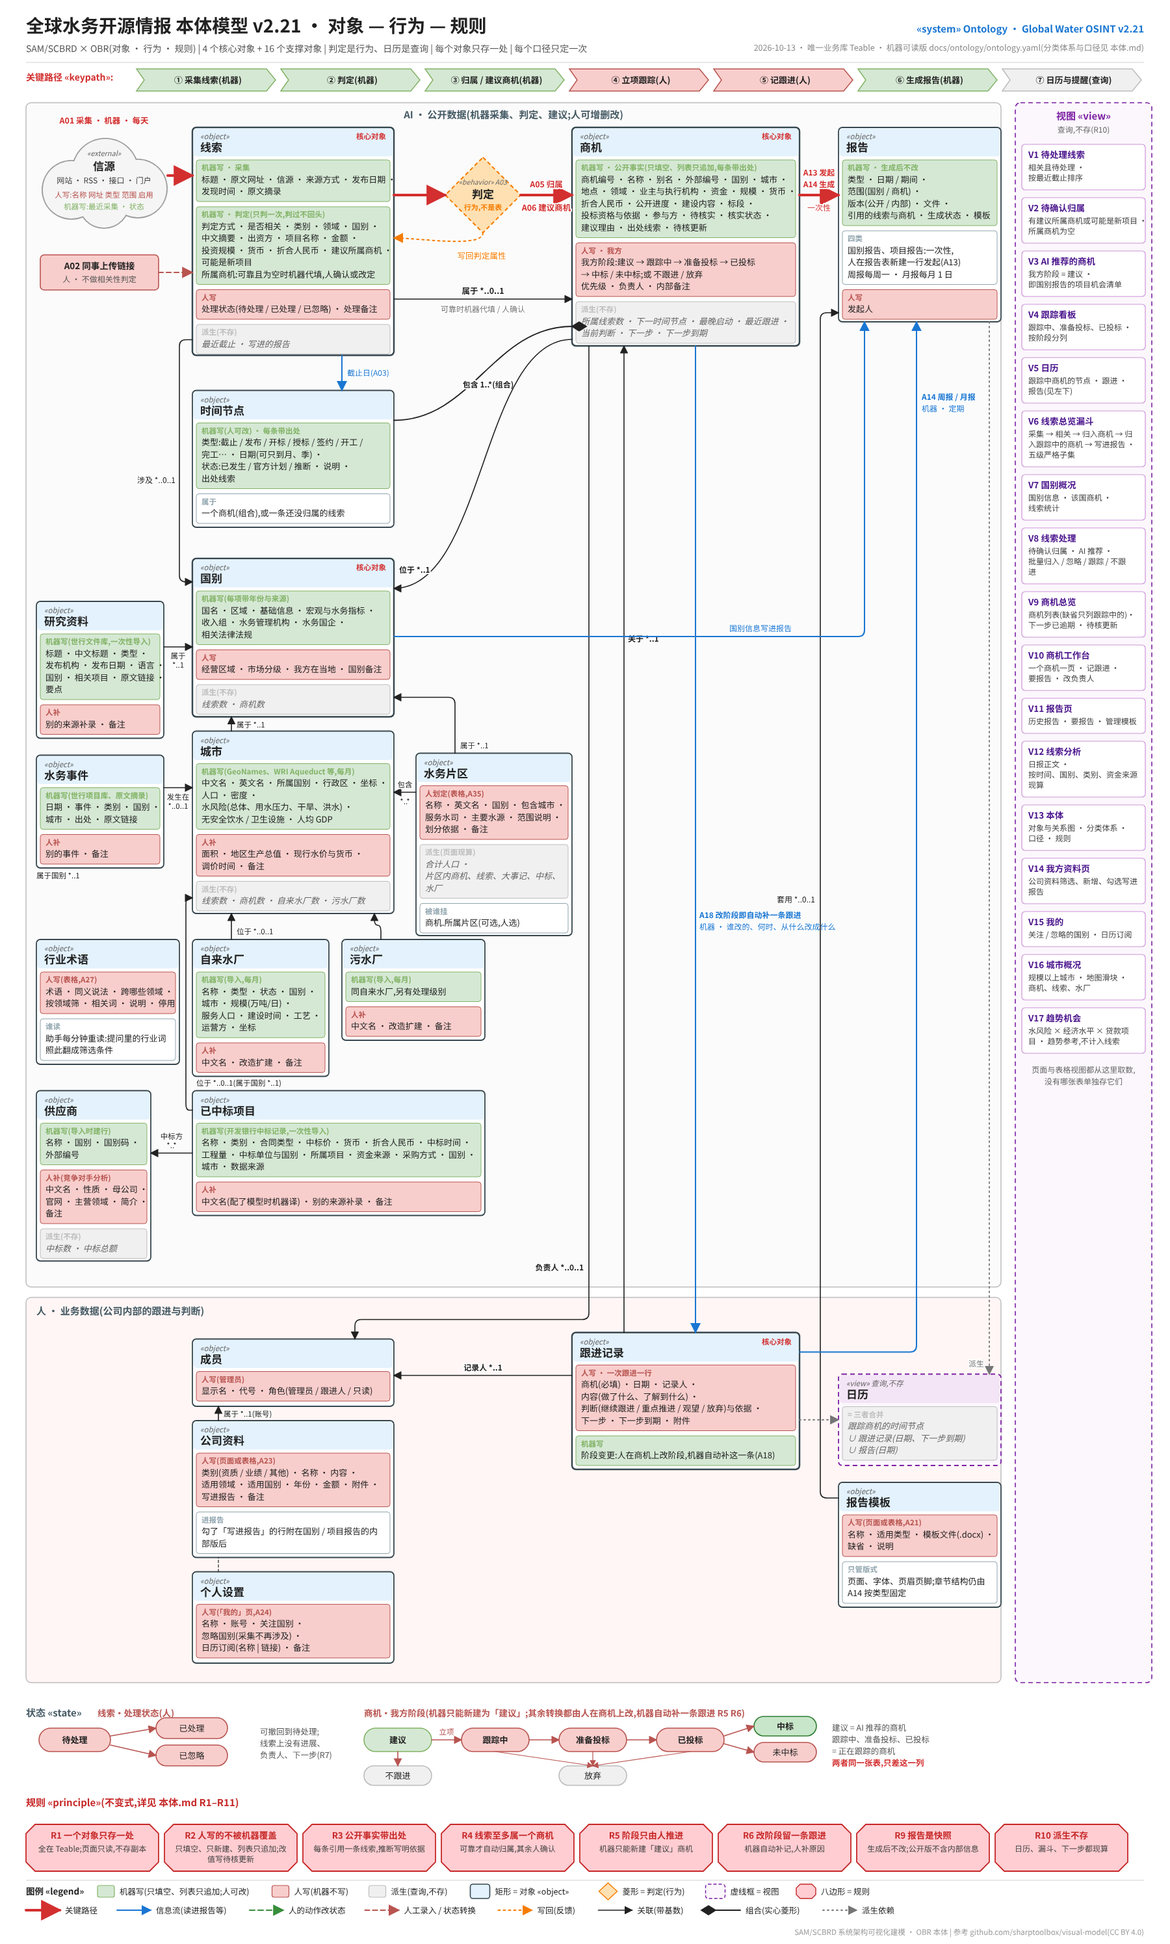
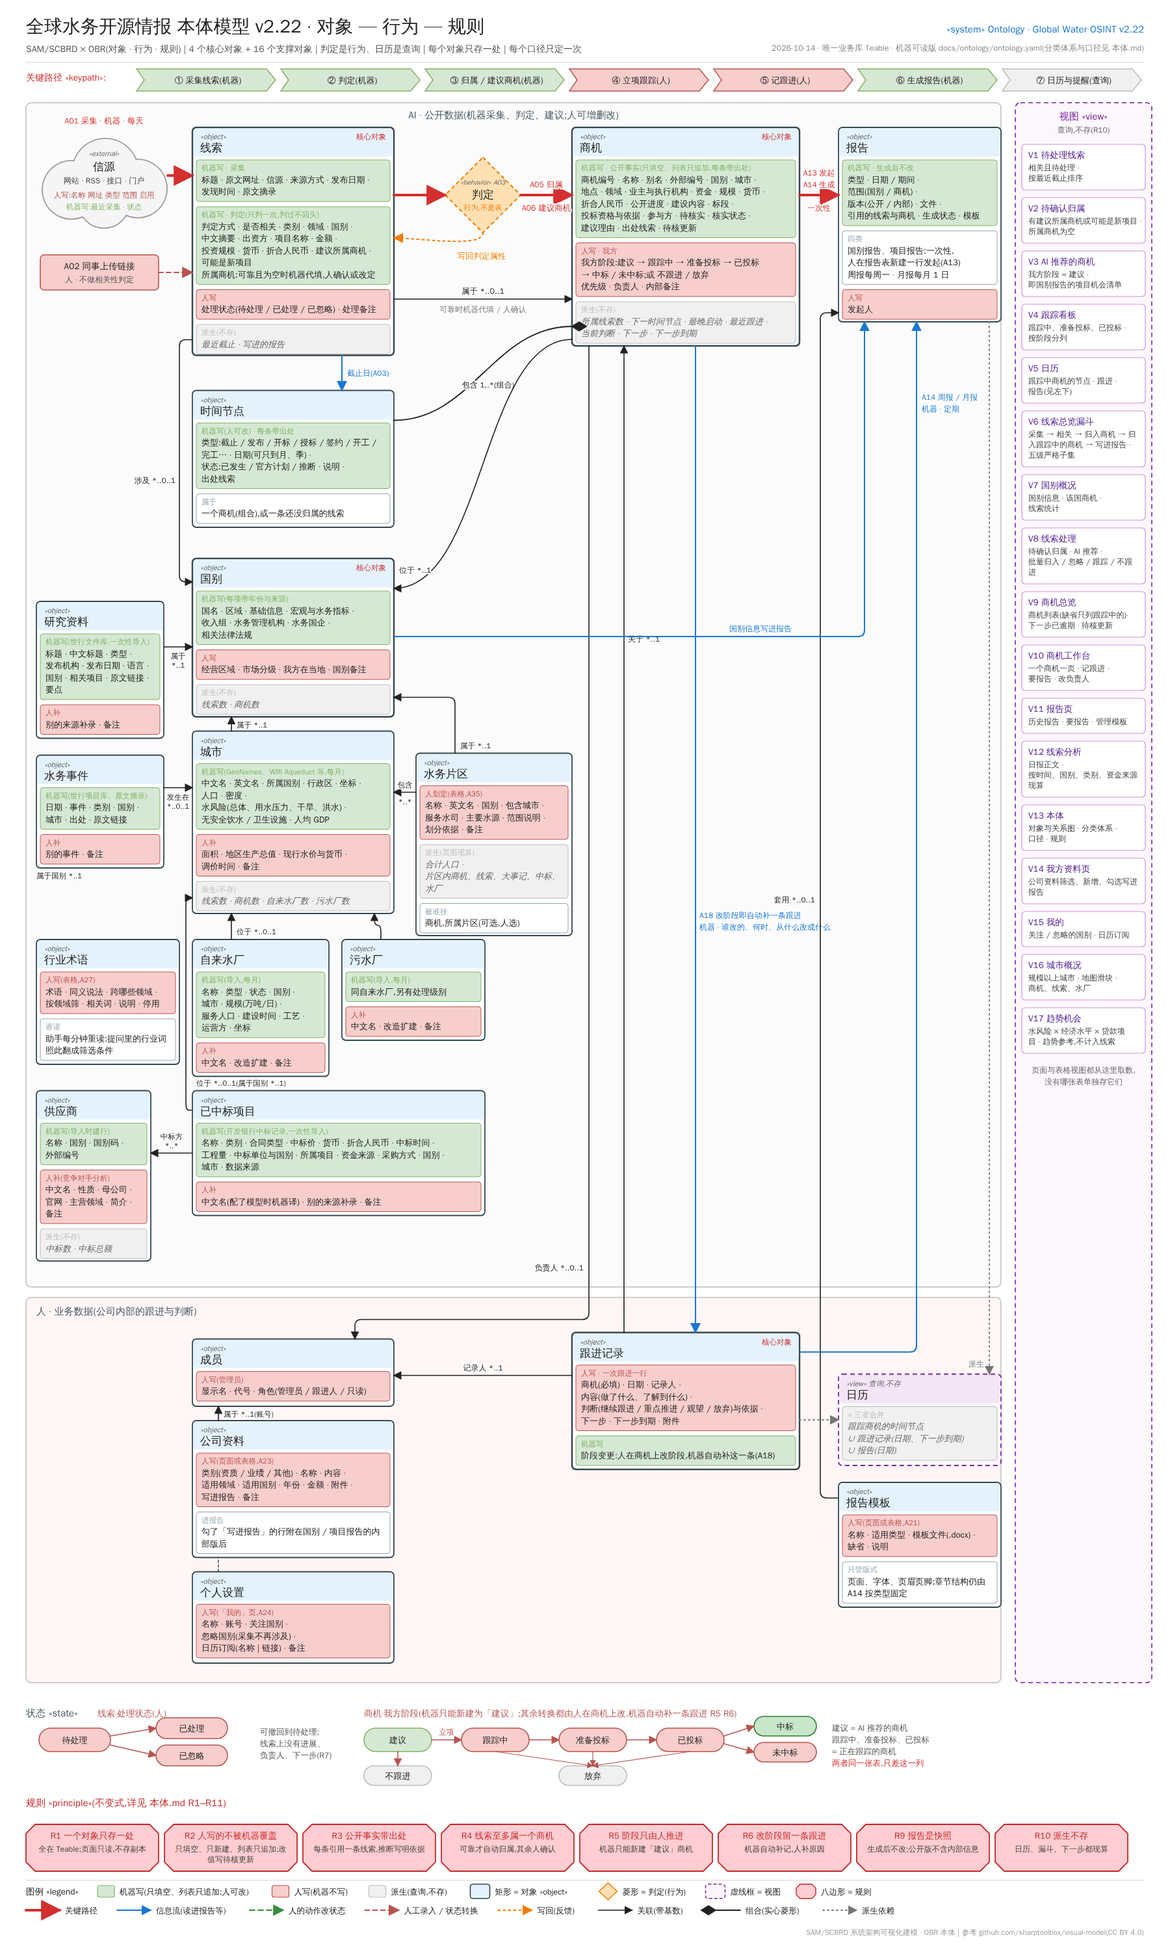
水务片区挪进国别概况「基本信息」:片区页签列这国的片区,市场背景菜单不再单列
Claude-Session: https://claude.ai/code/session_01WAVEGrQrawZNovWQTo83a5

diff --git a/portal/country.html b/portal/country.html
@@ -37,6 +37,11 @@
     <p class="muted small">人口达到门槛(缺省 10 万)的城市,后台每月按 GeoNames 公开数据维护;面积、地区生产总值公开数据里没有,在城市表里补,密度随后自动算。</p>
     <div class="panel" id="cities"></div>
   </div>
+  <div class="tab" data-t="areas">
+    <h2>水务片区</h2>
+    <p class="muted small">共用一家水司、一批水源与干管的连片城市(大城市圈),例如大巴库。小国的水务市场按片区看:城市太碎,国别太粗。片区由人在表格「水务片区」里划定,商机可以挂到片区上;点片区名看片区里的人口、商机、线索、大事记、中标与水厂。</p>
+    <div class="panel" id="areas"></div>
+  </div>
   <div class="tab" data-t="docs"><section id="chron"></section><section id="studies"></section></div>
   <div class="tab" data-t="awards"><section id="awBox"></section></div>
 </main>
@@ -44,9 +49,9 @@
 (async function () {
   const $ = (id) => document.getElementById(id);
   let countries = [], mc = null, mapOption = null;
-  /* 页签分三组(使用方 2026-10-13 要的):基本信息(概况、机构与法规、城市)→ 历史信息(水务历史资料、已中标项目)→ 动态信息(商机、线索、时间节点);
-     选中的记在网址 t= 里,数字是这个国家的条数 */
-  const GROUPS = [["基本信息", [["info", "概况"], ["inst", "机构与法规"], ["cities", "规模以上城市"]]],
+  /* 页签分三组(使用方 2026-10-13 要的):基本信息(概况、机构与法规、城市、水务片区)→ 历史信息(水务历史资料、已中标项目)→ 动态信息(商机、线索、时间节点);
+     选中的记在网址 t= 里,数字是这个国家的条数。水务片区(使用方 2026-10-14 从市场背景菜单挪来)只在这个国家划了片区时出现 */
+  const GROUPS = [["基本信息", [["info", "概况"], ["inst", "机构与法规"], ["cities", "规模以上城市"], ["areas", "水务片区"]]],
     ["历史信息", [["docs", "水务历史资料"], ["awards", "已中标项目"]]],
     ["动态信息", [["opps", "商机"], ["leads", "最近 90 天线索"], ["ms", "未来 30 天节点"]]]];
   const TABS = GROUPS.flatMap(([, ts]) => ts);
@@ -60,7 +65,9 @@
     history.replaceState(null, "", urlOf($("pick").value));
   }
   function drawTabs(counts) {
-    $("tabs").innerHTML = GROUPS.map(([g, ts]) => '<div class="tgrp"><span class="tg">' + g + '</span><div class="tb">' + ts.map(([k, l]) => '<button type="button" data-t="' + k + '">' + l + (counts && counts[k] !== undefined ? " <b>" + counts[k] + "</b>" : "") + "</button>").join("") + "</div></div>").join("");
+    const shown = ([k]) => k !== "areas" || (counts ? counts.areas > 0 : tab === "areas");  // 片区页签:没划片区的国家不出现;数还没读到时只在网址点名要它时先露出
+    if (!TABS.some((t) => t[0] === tab && shown(t))) tab = "info";
+    $("tabs").innerHTML = GROUPS.map(([g, ts]) => '<div class="tgrp"><span class="tg">' + g + '</span><div class="tb">' + ts.filter(shown).map(([k, l]) => '<button type="button" data-t="' + k + '">' + l + (counts && counts[k] !== undefined ? " <b>" + counts[k] + "</b>" : "") + "</button>").join("") + "</div></div>").join("");
     $("tabs").querySelectorAll("button").forEach((b) => { b.onclick = () => showTab(b.dataset.t); });
     showTab(tab);
   }
@@ -102,14 +109,16 @@
     $("rel").innerHTML = P.marketLinks(iso, "", "country.html");
     const since = P.addDays(P.today(), -90), until = P.addDays(P.today(), 30), today = P.today();
     const hasCity = !!(P.cfg.tables && P.cfg.tables.city);  /* 「城市」表建了才有(表结构没更新时页签显示「未建表」) */
+    const hasArea = !!(P.cfg.tables && P.cfg.tables.water_area) && P.has("opportunity", "area");
     const listsP = Promise.all([  // 这几张清单只要国别编号:与读整条国别记录同时发出,不排队
-      P.records("opportunity", { filter: P.and(P.cond("opportunity", "country", "is", c.id)), props: ["code", "name_zh", "stage", "public_stage", "next_milestone", "owner", "financing", "priority"] }),
+      P.records("opportunity", { filter: P.and(P.cond("opportunity", "country", "is", c.id)), props: ["code", "name_zh", "stage", "public_stage", "next_milestone", "owner", "financing", "priority"].concat(hasArea ? ["area"] : []) }),
       P.records("lead", { filter: P.and(P.cond("lead", "country", "is", c.id), P.cond("lead", "relevant", "is", true), P.cond("lead", "found_at", "isOnOrAfter", P.onDay(since))),
         take: 200, orderBy: [{ fieldId: P.f("lead", "found_at"), order: "desc" }], props: ["key", "title", "url", "category", "published", "found_at", "nearest_deadline", "summary_zh", "project_name", "opportunity", "status"] }),
       P.records("milestone", { filter: P.and(...P.between("milestone", "day", today, until)), props: ["opportunity", "lead", "country", "kind", "day", "status", "label"] }),
       hasCity ? P.records("city", { filter: P.and(P.cond("city", "country", "is", c.id)), orderBy: [{ fieldId: P.f("city", "population"), order: "desc" }],
         props: ["name_zh", "name_en", "admin", "population", "area_km2", "density", "gdp", "gdp_year", "lead_count", "opp_count", "coords"] }) : Promise.resolve([]),
     ]);
+    const areasP = hasArea ? P.records("water_area", { filter: P.and(P.cond("water_area", "country", "is", c.id)), props: ["name", "name_en", "cities", "utility"] }).catch((e) => { P.fail($("areas"), e); return []; }) : Promise.resolve([]);
     const awP = P.awards($("awBox"), "country", c.id).catch((e) => { P.fail($("awBox"), e); return 0; });  /* 已中标项目(历史信息里的一个页签):自己读自己画,不等别的 */
     /* 水务历史资料:大事记在上、研究资料在下,各自读各自画;页签上的数是研究资料份数 */
     const docsP = Promise.all([P.chronicle($("chron"), "country", c.id).catch((e) => { P.fail($("chron"), e); return 0; }),
@@ -185,8 +194,19 @@
       P.tableHtml(["城市", "行政区", "人口", "面积(km²)", "密度", "生产总值(亿美元)", "线索", "商机", ""], cities.map((ct) => { const q = (p) => P.get("city", ct, p);
         return [P.raw('<a href="city.html?id=' + encodeURIComponent(ct.id) + '"><b>' + P.esc(q("name_zh") || q("name_en") || "") + "</b></a>" + (q("name_en") && q("name_en") !== q("name_zh") ? ' <span class="muted small">' + P.esc(q("name_en")) + "</span>" : "")), q("admin") || "", num(q("population")), num(q("area_km2")), num(q("density")),
           num(q("gdp")) + (q("gdp") && q("gdp_year") ? ' <span class="muted small">' + P.esc(String(q("gdp_year"))) + "</span>" : ""), String(q("lead_count") || 0), String(q("opp_count") || 0), P.raw(P.open("city", ct.id))]; }));
+    /* 水务片区:合计人口按这个国家的城市表加(片区里的城市都在规模以上城市里),占全国按「宏观与水务指标」的总人口;挂上的商机 = 所属片区是它的 */
+    const areas = await areasP;
+    const popOf = {}; cities.forEach((ct) => { popOf[ct.id] = Number(P.get("city", ct, "population")) || 0; });
+    const natRow = indRows.find((r) => /^总人口/.test(r.k)), natM = natRow && String(natRow.v).match(/([\d.,]+)\s*(亿|万)?/);
+    const nat = natM ? Number(natM[1].replace(/,/g, "")) * (natM[2] === "亿" ? 1e8 : natM[2] === "万" ? 1e4 : 1) : 0;
+    const wan = (n) => (n >= 1e4 ? (Math.round(n / 1e3) / 10).toLocaleString("zh-CN") + " 万" : num(n));
+    const nOpp = {}; opps.forEach((o) => { const a = hasArea && P.linkId(P.get("opportunity", o, "area")); if (a) nOpp[a] = (nOpp[a] || 0) + 1; });
+    $("areas").innerHTML = !areas.length ? '<p class="muted">这个国家还没划水务片区。</p>' :
+      P.tableHtml(["片区", "包含城市", "合计人口", "服务水司", "挂上的商机", ""], areas.map((a) => { const q = (p) => P.get("water_area", a, p), tot = P.linkIds(q("cities")).reduce((s, id) => s + (popOf[id] || 0), 0);
+        return [P.raw('<a href="area.html?id=' + encodeURIComponent(a.id) + '"><b>' + P.esc(q("name") || "") + "</b></a>" + (q("name_en") ? '<br><span class="muted small">' + P.esc(q("name_en")) + "</span>" : "")),
+          P.text(q("cities")), P.raw(tot ? "<b>" + P.esc(wan(tot)) + "</b>" + (nat ? '<br><span class="muted small">占全国 ' + Math.round(tot * 100 / nat) + "%</span>" : "") : ""), q("utility") || "", String(nOpp[a.id] || 0), P.raw(P.open("water_area", a.id))]; }));
     const [[, nDoc], nAw] = await Promise.all([docsP, awP]);
-    drawTabs({ docs: nDoc || undefined, awards: nAw === undefined ? undefined : nAw, opps: opps.length, leads: leads.length + (leads.length >= 200 ? "+" : ""), ms: mine.length, cities: hasCity ? cities.length : "未建表" });
+    drawTabs({ areas: areas.length, docs: nDoc || undefined, awards: nAw === undefined ? undefined : nAw, opps: opps.length, leads: leads.length + (leads.length >= 200 ? "+" : ""), ms: mine.length, cities: hasCity ? cities.length : "未建表" });
   }
 
   try {

diff --git a/portal/area.html b/portal/area.html
@@ -10,16 +10,17 @@
 </head>
 <body>
 <div id="nav"></div>
-<script>document.getElementById("nav").innerHTML = P.nav("area.html");  /* 顶栏紧跟着就画,不等读表 */</script>
+<script>document.getElementById("nav").innerHTML = P.nav("country.html");  /* 顶栏紧跟着就画,不等读表 */</script>
 <main>
-  <!-- 两种样子(本体 V20):不带 id 是全部片区;带 ?id= 是一个片区(片区内城市的人口、商机、线索、大事记、中标与水厂一起看) -->
+  <!-- 两种样子(本体 V20):带 ?id= 是一个片区(片区内城市的人口、商机、线索、大事记、中标与水厂一起看),从国别概况「水务片区」页签、城市页、商机点进来;
+       不带 id 是全部片区(不在菜单里,留给旧链接)。2026-10-14 起片区挂在国别概况下,顶栏标国别概况 -->
   <section id="list" style="display:none">
     <h1>水务片区</h1>
     <p class="muted">共用一家水司、一批水源与干管的连片城市(大城市圈),例如大巴库。小国的水务市场按片区看:城市太碎,国别太粗。片区由人在表格「水务片区」里划定,商机可以挂到片区上。</p>
     <div class="panel" id="rows">读取中…</div>
   </section>
   <section id="one" style="display:none">
-    <div class="toolbar"><a href="area.html" id="back">← 全部片区</a><h1 style="margin:0" id="aname"></h1><span class="muted" id="aname2"></span><span id="rel"></span><span id="openRow" style="margin-left:auto"></span></div>
+    <div class="toolbar"><a href="country.html" id="back">← 国别概况</a><h1 style="margin:0" id="aname"></h1><span class="muted" id="aname2"></span><span id="rel"></span><span id="openRow" style="margin-left:auto"></span></div>
     <div id="cards"></div>
     <div class="panel" id="info">读取中…</div>
     <h2>包含城市</h2>
@@ -69,7 +70,6 @@
     $("aname").textContent = g(a, "name") || "";
     $("aname2").textContent = g(a, "name_en") || "";
     document.title = "全球水务开源情报 · " + (g(a, "name") || "水务片区");
-    P.backLink($("back"), "area.html", "全部片区");
     $("openRow").innerHTML = P.open("water_area", id, "在表格里打开这个片区 ↗");
     P.chronicle($("chron"), "city", cids).catch((e) => P.fail($("chron"), e));  /* 大事记、中标:自己读自己画 */
     P.awards($("awBox"), "city", cids).catch((e) => P.fail($("awBox"), e));
@@ -80,6 +80,8 @@
         props: ["code", "name_zh", "stage", "public_stage", "next_milestone", "owner", "financing", "priority", "city"] }),
       crid ? one("country", crid).catch(() => null) : null,
     ]);
+    const iso = country ? (country.fields || {})[P.t("country").key] || "" : "";
+    P.backLink($("back"), iso ? "country.html?" + new URLSearchParams({ iso, t: "areas" }) : "country.html", (iso ? P.text(g(a, "country")) + "的" : "") + "水务片区");  // 回到它所在国别的片区页签
     const oppIds = opps.map((o) => o.id);
     const [leads, ...plants] = await Promise.all([
       P.records("lead", { filter: P.and(P.cond("lead", "relevant", "is", true), P.or(oppIds.length ? P.cond("lead", "opportunity", "isAnyOf", oppIds) : null, anyCity("lead", "city"))),

diff --git a/portal/portal.js b/portal/portal.js
@@ -240,9 +240,8 @@
         ["@table", "后台数据表格", "在表格里直接看、改全部原始数据。"],
       ] },
       { name: "市场背景", items: [
-        ["country.html", "国别概况", "一国的指标、机构法规、城市、商机、线索与节点。"],
+        ["country.html", "国别概况", "一国的指标、机构法规、城市与水务片区、历史资料与中标、商机、线索与节点。"],
         ["city.html", "城市概况", "规模以上城市的人口、面积、分布,与关联的商机、线索。"],
-        ["area.html", "水务片区", "共用水司与水源的连片城市(如大巴库):人口、商机、线索、大事记、中标与水厂一起看。"],
         ["trend.html", "趋势机会", "按水风险、人均 GDP 与开发性贷款推算哪里缺水又有钱建:方向参考,不是具体项目。"],
       ] },
       { name: "项目线索", items: [

diff --git a/tests/test_portal.py b/tests/test_portal.py
@@ -18,8 +18,8 @@ PORTAL = ROOT / "portal"
 KIT = ROOT / "deploy" / "teable"
 ONTO, TMAP = ontology.load(), ontology.load_map()
 ONTO_RAW = ontology.raw()
-# 菜单(使用方 2026-10-08 定,10-09 加「市场背景」):首页 + 四组,组内顺序也按这个;「后台数据表格」是表格本身
-MENU_SPEC = [("工作原理", ["工作流程", "本体", "信源", "后台数据表格 ↗"]), ("市场背景", ["国别概况", "城市概况", "水务片区", "趋势机会"]), ("项目线索", ["线索总览", "线索分析", "线索处理"]), ("商机跟进", ["商机总览", "日历", "报告"])]
+# 菜单(使用方 2026-10-08 定,10-09 加「市场背景」,10-14 水务片区挪进国别概况):首页 + 四组,组内顺序也按这个;「后台数据表格」是表格本身
+MENU_SPEC = [("工作原理", ["工作流程", "本体", "信源", "后台数据表格 ↗"]), ("市场背景", ["国别概况", "城市概况", "趋势机会"]), ("项目线索", ["线索总览", "线索分析", "线索处理"]), ("商机跟进", ["商机总览", "日历", "报告"])]
 NEW = "水务项目机会 新版"
 READ_PAGES = ("calendar.html", "country.html", "city.html", "trend.html", "analysis.html", "ontology.html", "contractor.html", "area.html")  # 只读
 WRITE_PAGES = ("index.html", "overview.html", "opps.html", "opp.html", "inbox.html", "reports.html", "sources.html")  # 信源页只改「启用」; 以登录人身份写(跟进、报告申请、阶段、归属;首页只在看完一条链接后按「收进线索库」建一行线索;线索总览只有清单里的「转为商机」)
@@ -2009,8 +2009,9 @@ def test_water_history_tab_and_city_chronicle():
 
 
 def test_water_area_page_sums_its_cities():
-    """水务片区(使用方 2026-10-13 要的,v2.18):市场背景下新页;清单列片区、包含城市与合计人口;一个片区汇总包含城市的人口、
-    商机(挂片区的 + 城市在片区里的)、线索、大事记、水厂与中标,不在片区里的城市不算。只读。"""
+    """水务片区(使用方 2026-10-13 要的,v2.18;10-14 从市场背景菜单挪进国别概况「基本信息」,v2.22):国别概况的片区页签列这国的片区、包含城市、
+    合计人口(占全国)与挂上的商机,没划片区的国家不出这个页签;一个片区汇总包含城市的人口、商机(挂片区的 + 城市在片区里的)、线索、大事记、水厂与中标,
+    不在片区里的城市不算,返回回到国别的片区页签。只读。"""
     from playwright.sync_api import Error as PWError, sync_playwright
     fake, admin = _fake_with_schema()
     c, o, ld = _seed(admin, fake)
@@ -2027,6 +2028,7 @@ def test_water_area_page_sums_its_cities():
                               {"name": "Ganja WWTP", "kind": "污水厂", "country": c["id"], "city": ganja["id"], "capacity": 5}])
     b.create("water_event", [{"key": "E1", "day": "2000-01-01", "日期原文": "2000", "title": "成立阿布歇隆水务公司", "kind": "机构改革", "country": c["id"], "city": baku["id"]},
                              {"key": "E2", "day": "2010-01-01", "日期原文": "2010", "title": "甘贾的事", "kind": "其他", "country": c["id"], "city": ganja["id"]}])
+    b.create("country", [{"name_zh": "摩洛哥", "ISO3": "MAR"}])  # 没划片区的国家
     cfg = schema.read_config(admin, NEW, ONTO)
     srv = _serve(fake, cfg)
     base = f"http://127.0.0.1:{srv.server_port}"
@@ -2041,12 +2043,15 @@ def test_water_area_page_sums_its_cities():
             page = browser.new_page(viewport={"width": 1366, "height": 900})
             errors: list[str] = []
             page.on("pageerror", lambda e: errors.append(str(e)))
-            page.goto(base + "/area.html")
-            page.wait_for_selector("#rows table", timeout=15000)
-            row = page.inner_text("#rows tbody tr")
+            page.goto(base + "/country.html?iso=AZE&t=areas")
+            page.wait_for_selector("#areas table", timeout=15000)
+            tabs = page.locator("#tabs .tgrp").first.locator("button").all_inner_texts()
+            assert [t.split(" ")[0] for t in tabs] == ["概况", "机构与法规", "规模以上城市", "水务片区"] and tabs[-1] == "水务片区 1"  # 基本信息组的最后一个
+            assert page.locator(".tab.on").get_attribute("data-t") == "areas"
+            row = page.inner_text("#areas tbody tr")
             assert "大巴库" in row and "巴库" in row and "苏姆盖特" in row and "277.8 万" in row and "\t1\t" in row  # 挂上的商机 1 个
-            assert "水务片区" in page.inner_text("#nav")
-            page.click("#rows a:has-text('大巴库')")
+            assert "水务片区" not in page.inner_text("#nav")  # 不在菜单里了
+            page.click("#areas a:has-text('大巴库')")
             page.wait_for_selector("#chron .chron", timeout=15000)
             page.wait_for_selector("#plants table", timeout=15000)
             k = page.inner_text("#cards")
@@ -2058,8 +2063,16 @@ def test_water_area_page_sums_its_cities():
             assert "霍夫桑污水厂" in page.inner_text("#plants") and "Ganja" not in page.inner_text("#plants")
             assert "成立阿布歇隆水务公司" in page.inner_text("#chron") and "甘贾的事" not in page.inner_text("#chron")
             assert "奥古兹—盖贝莱—巴库线" in page.inner_text("#info") and "同一家水司供水" in page.inner_text("#info")
+            assert page.locator("#nav .pagetabs a.on").inner_text() == "国别概况"
             if shots:
                 page.screenshot(path=str(shots / "area.png"), full_page=True)
+            page.goto(base + f"/area.html?id={area['id']}")  # 直接打开(没有来处):返回链接指回国别的片区页签
+            page.wait_for_selector("#cities table", timeout=15000)
+            assert page.locator("#back").get_attribute("href") == "country.html?iso=AZE&t=areas" and "水务片区" in page.inner_text("#back")
+            # 没划片区的国家:没有这个页签,网址点名要它也回到概况
+            page.goto(base + "/country.html?iso=MAR&t=areas")
+            page.wait_for_function("document.querySelector('#tabs button[data-t=opps] b') !== null", timeout=15000)
+            assert page.locator("#tabs button[data-t=areas]").count() == 0 and page.locator(".tab.on").get_attribute("data-t") == "info"
             phone = browser.new_page(viewport={"width": 390, "height": 760})
             phone.goto(base + f"/area.html?id={area['id']}")
             phone.wait_for_selector("#plants table", timeout=15000)
